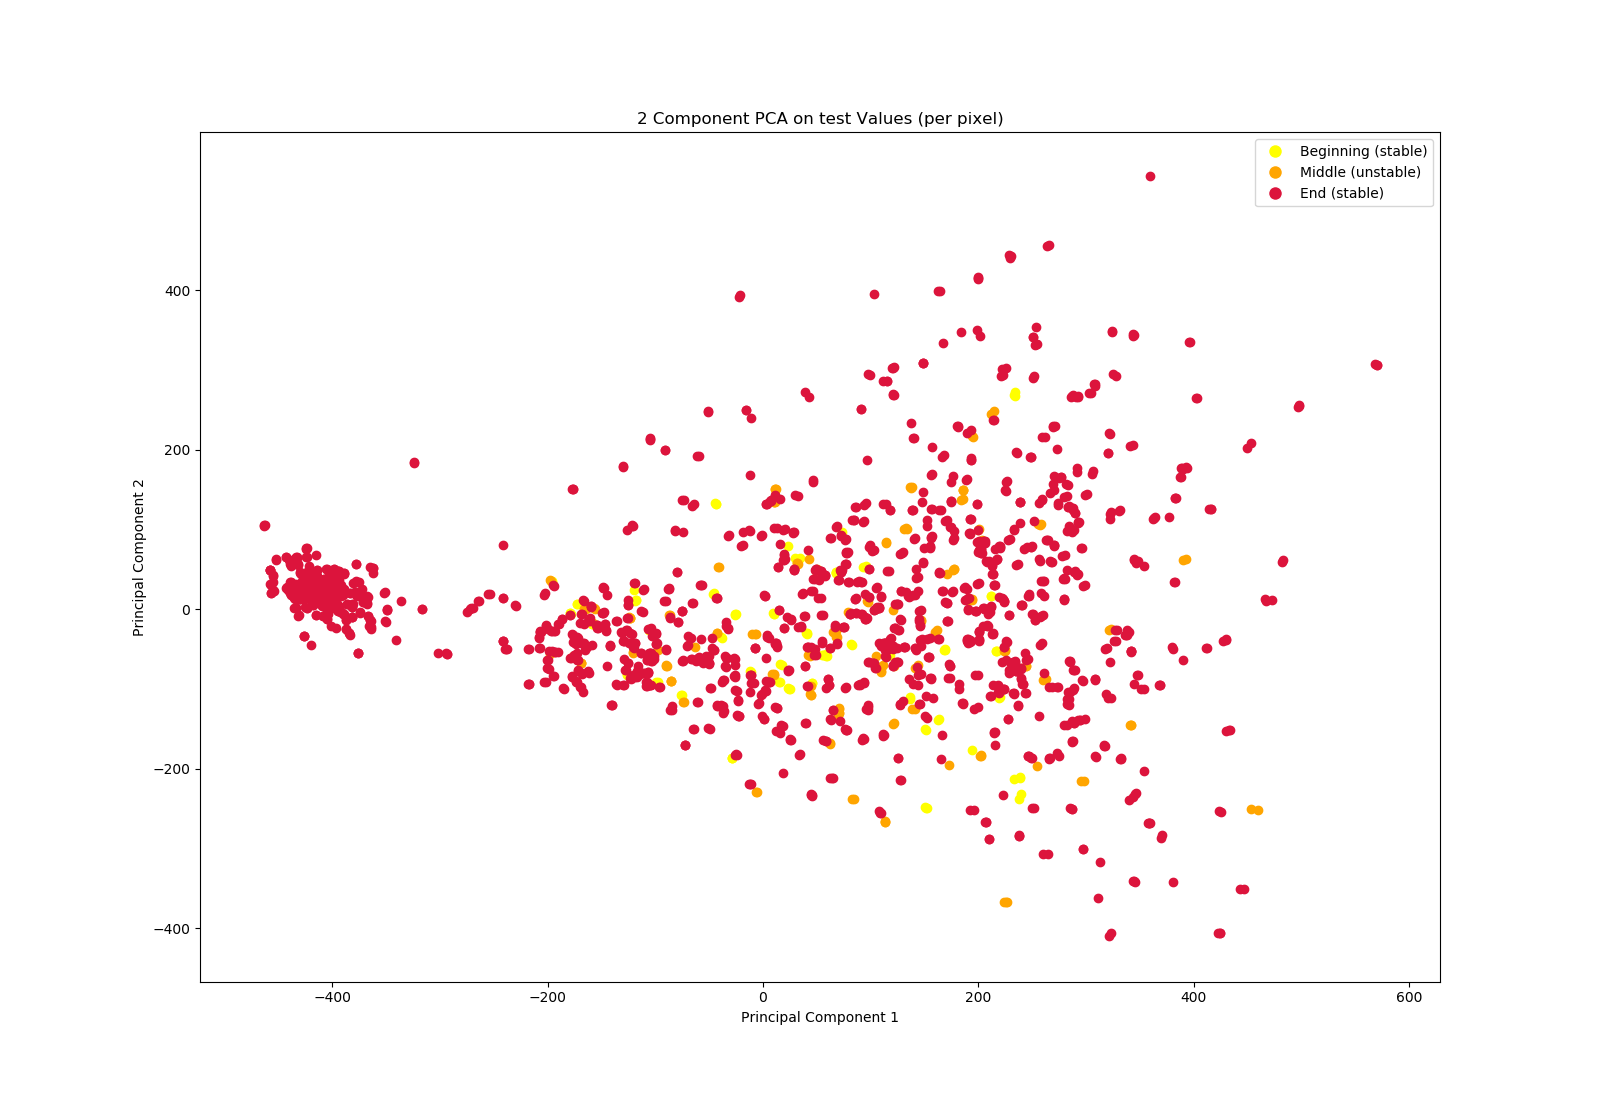
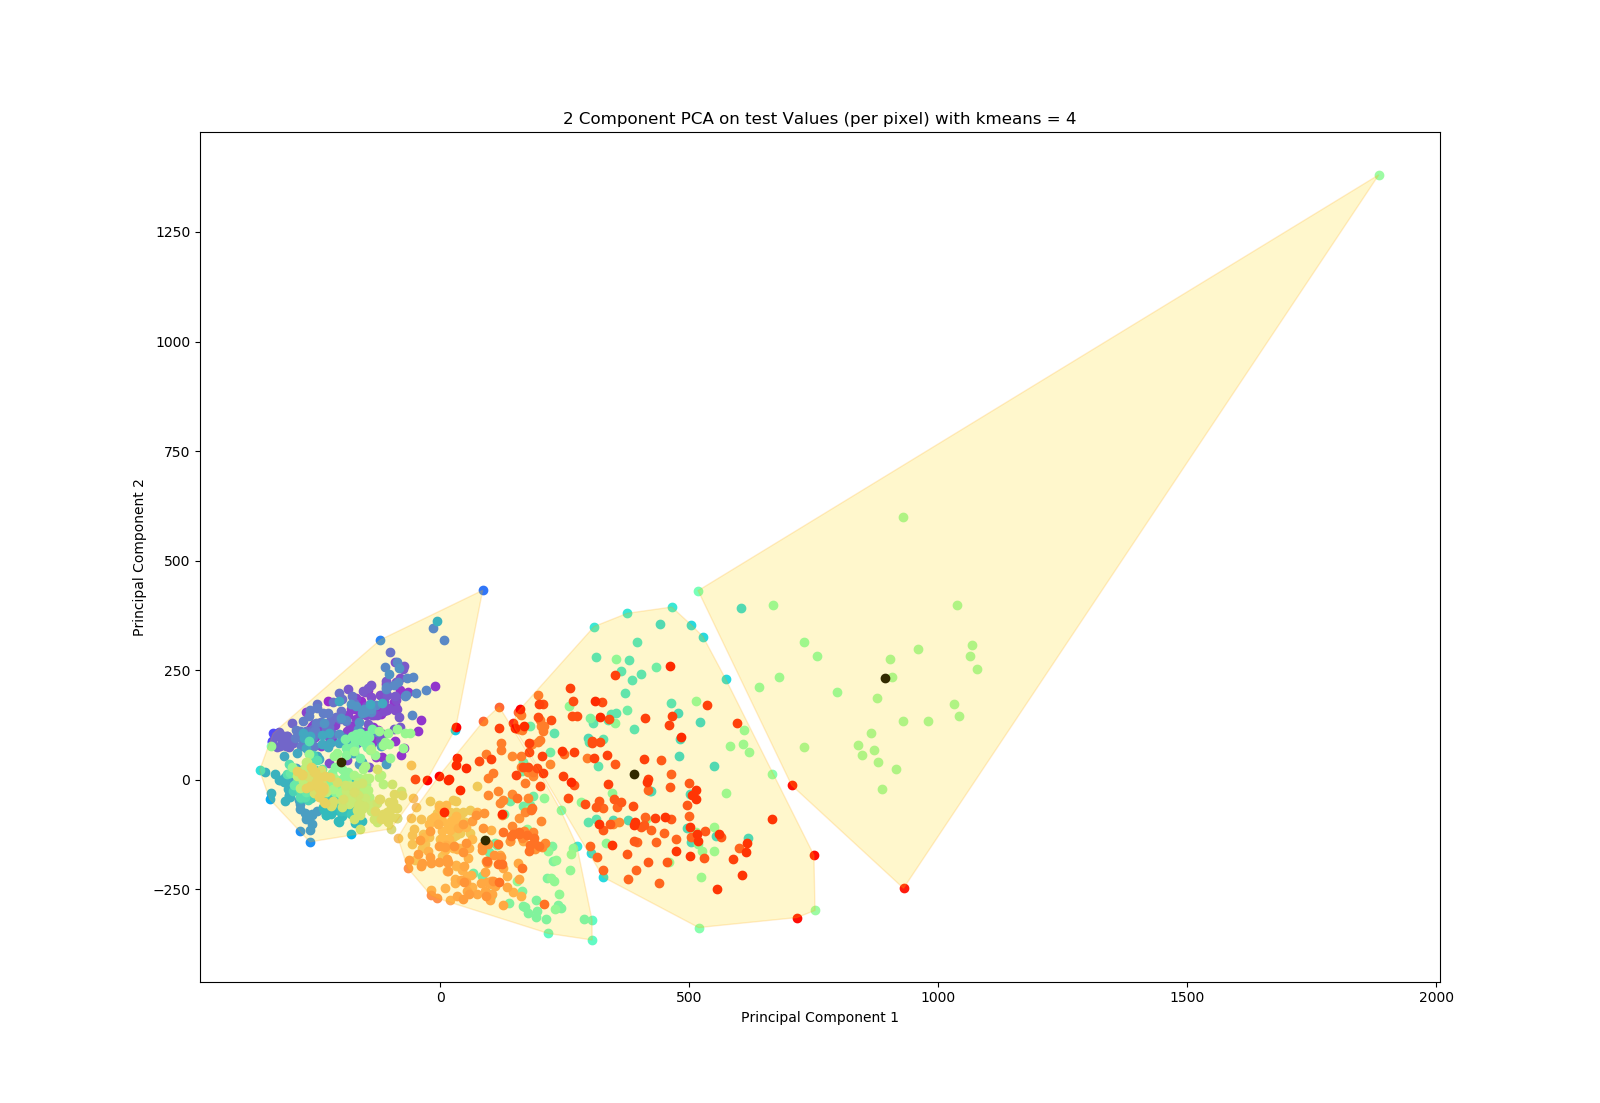
edited parameters, generated flame stability values

diff --git a/flameTest/twoComponentPCA.py b/flameTest/twoComponentPCA.py
@@ -6,18 +6,27 @@ from sklearn.cluster import MeanShift
 from sklearn.cluster import KMeans
 from sklearn.decomposition import PCA
 import numpy as np
-
+import matplotlib.cm as cm
 # =========================================================================== #
 
 # apply PCA with 2 components
-def applyPCA (array, frameCount, test):
+def applyPCA (array, frameCount, test, videos):
     
     pca = PCA(n_components = 2)
     
     principalComponents = pca.fit_transform(array)
+    colors = cm.rainbow(np.linspace(0, 1, len(videos)))
+    frames = 0
+    print(len(colors))
+    print(colors[0])
     
-    # print(len(principalComponents))
-    
+    for c in range(0, len(colors)):
+        color = colors[c]
+        for i in range(0, videos[c]):
+            plt.scatter(principalComponents[frames, 0], 
+                        principalComponents[frames, 1], c = color)
+            frames += 1 
+        
     # plot the figure if it's not rgb
     # if test != "luminance":
     #     for i in range (0, len(principalComponents)):
@@ -53,18 +62,18 @@ def applyPCA (array, frameCount, test):
                    " or 3) mean shift to this data? Press enter to skip" +
                    " cluster step.\n")
     
-    legend_elements = [Line2D([0],[0], marker = 'o', color = 'w', 
-                              label = 'Beginning (stable)',
-                              markerfacecolor = 'yellow', markersize = 10),
-                       Line2D([0],[0], marker = 'o', color = 'w',
-                              label = 'Middle (unstable)',
-                              markerfacecolor = 'orange', markersize = 10),
-                       Line2D([0],[0], marker = 'o', color = 'w', 
-                              label = 'End (stable)',
-                              markerfacecolor = 'crimson', markersize = 10)]
+    # legend_elements = [Line2D([0],[0], marker = 'o', color = 'w', 
+    #                           label = 'Beginning (stable)',
+    #                           markerfacecolor = 'yellow', markersize = 10),
+    #                    Line2D([0],[0], marker = 'o', color = 'w',
+    #                           label = 'Middle (unstable)',
+    #                           markerfacecolor = 'orange', markersize = 10),
+    #                    Line2D([0],[0], marker = 'o', color = 'w', 
+    #                           label = 'End (stable)',
+    #                           markerfacecolor = 'crimson', markersize = 10)]
     
-    plt.legend(handles = legend_elements)
-    print(pca.explained_variance_ratio_)
+    # plt.legend(handles = legend_elements)
+    # print(pca.explained_variance_ratio_)
     
     if choice == "1":
         clusterNum = input("How many clusters do you want? (no more than 5) \n")

diff --git a/edge-detection.py b/edge-detection.py
@@ -1,0 +1,68 @@
+import cv2
+import csv
+import numpy as np
+import pandas
+from PIL import Image
+from PIL import ImageEnhance
+# =========================================================================== #
+
+def edgeDetection():
+    
+    df = pandas.read_csv('EtOH_flamemap.csv')
+
+    
+    for i in range(0, len(df['File name'])):
+        
+        # read in video
+        fire = cv2.VideoCapture('./fireFiles/' + df['File name'][i])
+        
+        # print error message if you can't read it in
+        if (fire.isOpened() == False):
+            print("Error opening video file or stream")
+
+        # display the video until 'q' is pressed or until it terminates
+        while (fire.isOpened()):
+            ret, frame = fire.read()
+            
+            if ret == True:
+                
+                cv2.imshow('default', frame)
+                
+                clahe = cv2.createCLAHE(clipLimit = 15, tileGridSize = (8,8))
+                lab = cv2.cvtColor(frame, cv2.COLOR_BGR2LAB)
+                l, a, b = cv2.split(lab)
+                l2 = clahe.apply(l)
+                
+                lab = cv2.merge((l2,a,b))
+                newFrame = cv2.cvtColor(lab, cv2.COLOR_LAB2BGR)
+                cv2.imshow('Contrast', newFrame)
+                grayscale = cv2.cvtColor(newFrame, cv2.COLOR_BGR2GRAY)
+                cv2.imshow('grayscale', grayscale)
+                
+                gray_filtered = cv2.bilateralFilter(grayscale, 5, 25, 25)
+                
+                edges_filtered = cv2.Canny(gray_filtered, 50, 50)
+                cv2.imshow('Bilateral', edges_filtered)
+                
+                # laplacian = cv2.Laplacian(frame, cv2.CV_64F)
+                # sobelx = cv2.Sobel(newFrame, cv2.CV_64F, 1, 0, ksize = 3)
+                # sobely = cv2.Sobel(frame, cv2.CV_64F, 0, 1, ksize = 5)
+                # edges = cv2.Canny(newFrame, 50, 100)
+                
+                # cv2.imshow('laplacian', laplacian)
+                # cv2.imshow('sobelx', sobelx)
+                # cv2.imshow('sobely', sobely)
+                # cv2.imshow('edges', edges)
+
+                # terminates the video before it finishes
+                if cv2.waitKey(25) == ord('q'):
+                    break
+                
+            else:
+                break
+   
+    fire.release()
+    cv2.destroyAllWindows()
+
+if __name__ == "__main__":
+    edgeDetection()

diff --git a/flame-spray-pca.py b/flame-spray-pca.py
@@ -20,8 +20,11 @@ def main():
     
     features = []
     frameCount = 0    
+    videos = []
     
     for i in range(0, len(df['File name'])):
+        
+        numFrames = 0
         
         # read in video
         fire = cv2.VideoCapture('./fireFiles/' + df['File name'][i])
@@ -45,22 +48,24 @@ def main():
             if ret == True:
                 cv2.imshow('Fire', frame)
                 
-                if frameCount % 10 == 0: 
+                if frameCount % 15 == 0: 
                     temp = luminance.lumArray(frame, vidHeight, vidWidth)
                     features.append(temp)
+                    numFrames += 1
                 
                 # terminates the video before it finishes
                 if cv2.waitKey(25) == ord('q'):
                     break
                 
             else:
+                videos.append(numFrames)
                 break
             
-    features = standardize(features)
-    print(frameCount)
-    print(features.shape)
+    # features = standardize(features)
+    # print(frameCount)
+    # print(features.shape)
     
-    twoComponentPCA.applyPCA(features, frameCount, 'test')
+    # twoComponentPCA.applyPCA(features, frameCount, 'test', videos)
         
     fire.release()
     cv2.destroyAllWindows()
